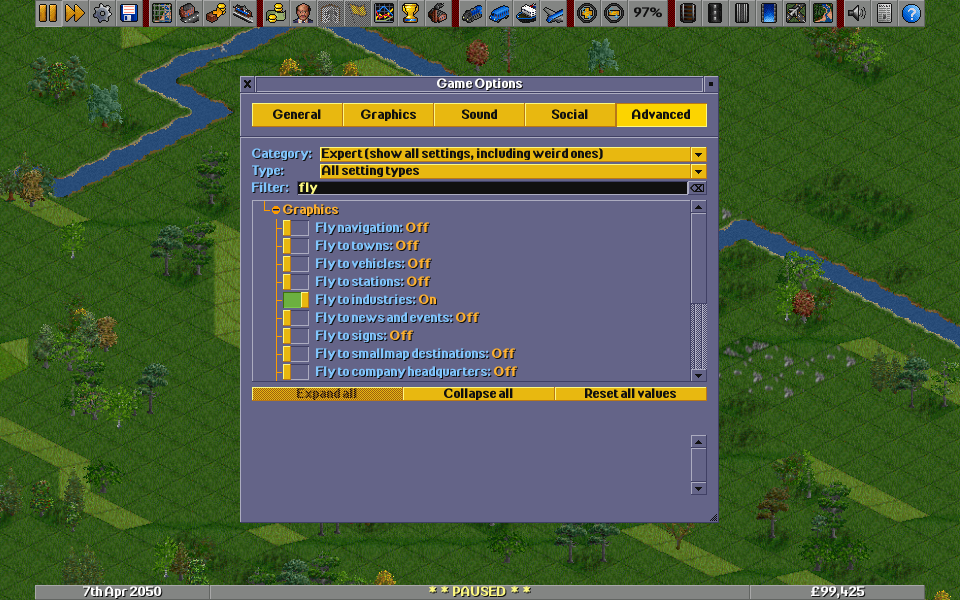
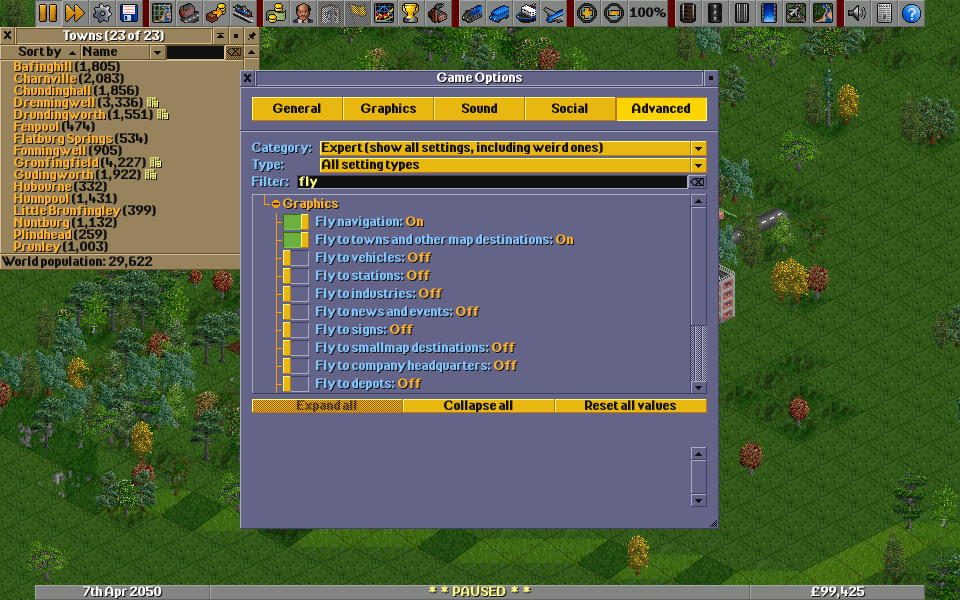
Feature: Combine town and other map flight controls

diff --git a/src/settings_type.h b/src/settings_type.h
@@ -246,7 +246,7 @@ struct GUISettings {
 	ZoomLevel zoom_max; ///< maximum zoom out level
 	bool smooth_zoom; ///< allow fractional mouse-wheel zoom on supported blitters
 	bool fly_navigation; ///< master switch for opt-in zoom-and-pan navigation
-	bool fly_towns; ///< allow flights to towns
+	bool fly_towns; ///< allow flights to towns and otherwise uncategorised map destinations
 	bool fly_vehicles; ///< allow flights to vehicles
 	bool fly_stations; ///< allow flights to stations
 	bool fly_industries; ///< allow flights to industries
@@ -260,7 +260,6 @@ struct GUISettings {
 	bool fly_scenarios; ///< allow flights to scenario links
 	bool fly_subsidies; ///< allow flights to subsidy destinations
 	bool fly_scripts; ///< allow flights to script destinations
-	bool fly_other_navigation; ///< allow flights to otherwise uncategorised destinations
 	uint16_t fly_pan_speed; ///< pan speed as a percentage of viewport widths per second
 	uint16_t fly_zoom_duration; ///< zoom timing at departure and arrival, in milliseconds
 	uint8_t fly_zoom_out; ///< maximum extra traditional zoom-out levels

diff --git a/src/tests/viewport_flight_targets.cpp b/src/tests/viewport_flight_targets.cpp
@@ -30,14 +30,14 @@ TEST_CASE("Flight categories remain independent under the master switch", "[smoo
 		{ViewportFlightTarget::Scenario, &GUISettings::fly_scenarios},
 		{ViewportFlightTarget::Subsidy, &GUISettings::fly_subsidies},
 		{ViewportFlightTarget::Script, &GUISettings::fly_scripts},
-		{ViewportFlightTarget::Other, &GUISettings::fly_other_navigation},
+		{ViewportFlightTarget::Other, &GUISettings::fly_towns},
 	};
 	GUISettings settings{};
 	settings.fly_navigation = true;
 	for (const auto &[enabled_target, enabled_flag] : categories) {
 		settings.*enabled_flag = true;
 		for (const auto &[target, flag] : categories) {
-			CHECK(IsViewportFlightEnabled(settings, target) == (target == enabled_target));
+			CHECK(IsViewportFlightEnabled(settings, target) == (flag == enabled_flag));
 		}
 		settings.fly_navigation = false;
 		CHECK_FALSE(IsViewportFlightEnabled(settings, enabled_target));

diff --git a/src/settingentry_gui.cpp b/src/settingentry_gui.cpp
@@ -606,7 +606,6 @@ SettingsContainer &GetSettingsTree()
 			graphics->Add(new SettingEntry("gui.fly_scenarios"));
 			graphics->Add(new SettingEntry("gui.fly_subsidies"));
 			graphics->Add(new SettingEntry("gui.fly_scripts"));
-			graphics->Add(new SettingEntry("gui.fly_other_navigation"));
 			graphics->Add(new SettingEntry("gui.fly_pan_speed"));
 			graphics->Add(new SettingEntry("gui.fly_zoom_duration"));
 			graphics->Add(new SettingEntry("gui.fly_zoom_out"));

diff --git a/src/core/viewport_flight_targets.hpp b/src/core/viewport_flight_targets.hpp
@@ -35,7 +35,7 @@ bool IsViewportFlightEnabled(const Settings &settings, ViewportFlightTarget targ
 		case ViewportFlightTarget::Scenario: return settings.fly_scenarios;
 		case ViewportFlightTarget::Subsidy: return settings.fly_subsidies;
 		case ViewportFlightTarget::Script: return settings.fly_scripts;
-		case ViewportFlightTarget::Other: return settings.fly_other_navigation;
+		case ViewportFlightTarget::Other: return settings.fly_towns;
 	}
 	return false;
 }

diff --git a/docs/smooth_zoom_readme.md b/docs/smooth_zoom_readme.md
@@ -77,7 +77,7 @@ smooth wheel controls, use `set gui.smooth_zoom 0`.
 
 Flight navigation is a separate, opt-in feature. In **Game Options → Advanced**,
 select **Expert / all settings**, search for **fly**, and enable **Fly navigation**.
-Then enable the destination categories you want. **Fly to towns** defaults to
+Then enable the destination categories you want. **Fly to towns and other map destinations** defaults to
 on beneath the disabled master switch; all additional categories default to off.
 Alternatively, enter `set gui.fly_navigation 1` in the console. It requires a
 supported 32bpp blitter; the mouse-wheel smooth-zoom setting is independent.
@@ -97,17 +97,17 @@ the filter and expand **Graphics** to see all of these options together.
 | Option | Default | Effect |
 | --- | --- | --- |
 | Fly navigation | Off | Master switch for all navigation flights. |
-| Fly to towns | On, subject to master switch | Enables town-directory and town-location flights. |
+| Fly to towns and other map destinations | On, subject to master switch | Enables town-directory, town-location and uncategorised map-location flights, including console `scrollto`. Console setting: `gui.fly_towns`. |
 | Flight pan speed | 100% of a viewport per second | Higher values shorten the journey; range 25–400%. Very short and long journeys have bounded durations. |
 | Flight zoom timing | 350 ms at each end | Higher values give gentler departure and arrival; range 100–2,000 ms. |
 | Maximum extra flight zoom-out | 2 levels | Longer trips reveal more of the route, up to this allowance; range 0–3. Zero removes the extra pull-back. |
 | Town arrival zoom | Fit town automatically | Choose automatic fitting or a fixed level from 400% to 12.5%. |
 
 Every additional category has its own switch. All require **Fly navigation**;
-none requires **Fly to towns** or another category to be enabled.
+none requires **Fly to towns and other map destinations** or another category to be enabled.
 
-This configured example selects industry flights while the master switch is
-off. Scroll the list to see the remaining categories.
+This example enables the master switch and the combined town/map option,
+with the other destination options off. Scroll to see the remaining categories.
 
 ![Independent flight controls in Advanced settings](images/smooth-zoom/flight-target-settings.png)
 
@@ -126,9 +126,8 @@ off. Scroll the list to see the remaining categories.
 | Fly to scenario links | Story-page, goal and league-table location links | `gui.fly_scenarios` |
 | Fly to subsidy destinations | Subsidy-list source/destination locations | `gui.fly_subsidies` |
 | Fly to script destinations | Navigation requested by a game script | `gui.fly_scripts` |
-| Fly to other locations | Remaining map-location actions and console `scrollto` | `gui.fly_other_navigation` |
 
-For example, enable station flights without town flights:
+For example, enable station flights without town or uncategorised map flights:
 
 ```text
 set gui.fly_navigation 1
@@ -139,9 +138,10 @@ set gui.fly_stations 1
 The switch follows the action used: a vehicle referenced in a news item uses
 the news switch, while its own location button uses the vehicle switch. Order
 destinations use the order switch even when the destination is a station.
-**Fly to other locations** does not override any disabled category. It replaces
-the earlier **Fly to other map destinations** blanket switch; enable individual
-categories when upgrading that prototype configuration.
+**Fly to towns and other map destinations** combines town and uncategorised
+map navigation; it does not override any other disabled category. The combined
+switch retains `gui.fly_towns` and its existing value. The former
+`gui.fly_other_navigation` setting is removed; use `gui.fly_towns` instead.
 
 Turning off a category cancels any active flight in that category at its
 currently displayed view. Turning off the master cancels every flight.
@@ -168,7 +168,7 @@ To try other destinations from the console:
 
 ```text
 set gui.fly_navigation 1
-set gui.fly_other_navigation 1
+set gui.fly_towns 1
 scrollto 50 50
 ```
 

diff --git a/docs/smooth_zoom_handoff.md b/docs/smooth_zoom_handoff.md
@@ -59,8 +59,9 @@ outputs, isolated configurations, saved games and runtime logs stay ignored.
 
 ## Per-target flight controls
 
-`gui.fly_navigation` is now the master switch; `gui.fly_towns` independently
-controls towns. Towns default on beneath the disabled master switch; additional
+`gui.fly_navigation` is the master switch; `gui.fly_towns` now jointly
+controls towns and uncategorised map destinations. This combined option defaults
+on beneath the disabled master switch; additional
 categories default off. `ViewportFlightTarget` and `IsViewportFlightEnabled`
 carry typed permissions through viewport navigation. Active flights retain
 their category and cancel if that category or the master is disabled.
@@ -70,8 +71,9 @@ smallmap, company headquarters, depots, waypoints, order destinations, scenario
 links (stories/goals/league tables), subsidies, game-script locations and other
 locations. News references use News even for a vehicle; order destinations use
 Order even for a station. Generic Other does not override disabled categories.
-The earlier blanket `fly_other_navigation` flag now applies only to otherwise
-uncategorised map locations and console commands. Explicit instant navigation,
+The former `fly_other_navigation` setting has been removed. Uncategorized map
+locations and console commands now share `fly_towns`; all other category switches
+remain independent. Existing `fly_towns` configurations retain their value. Explicit instant navigation,
 Ctrl-click extra viewports and continuous vehicle following remain immediate.
 Vehicle location flights target the selected position, not a moving endpoint.
 

diff --git a/docs/smooth_zoom_todo.md b/docs/smooth_zoom_todo.md
@@ -204,14 +204,19 @@ animation and interaction are finished.
       the official repository as upstream. Do not change repository visibility.
 - [x] Add independent fly-target toggles for towns, vehicles, stations,
       industries, news/events and the remaining navigation entry points.
-      Fifteen categories, gated by the master switch. Additional categories
-      default off; enabling Other cannot override a disabled category.
+      Fifteen destination categories, gated by the master switch; towns and
+      uncategorised map destinations now share one option. All other options
+      default off; the shared option cannot override a disabled category.
 - [x] Rebuild and test permission isolation: 48,600 assertions in 124 cases.
 - [x] Inspect per-target On/Off settings in the Expert UI; screenshot in guide.
 - [x] Runtime town, station, industry and vehicle category checks, including
       category off while Other is on, and category on while Other is off.
       Disabling an active station category preserves the view past its former
       duration; vehicle following interrupts a vehicle-target flight.
+- [x] Merge town and uncategorised map flights into one option, retaining
+      `gui.fly_towns`; other destination switches remain independent. Release
+      build and 48,600 assertions pass; shared-map on/off, mid-flight cancellation
+      and town-directory flight checked. Guide screenshot refreshed.
 - [ ] Runtime news-item clicks and remaining secondary navigation controls.
 
 User instructions: [prototype setup](smooth_zoom_readme.md).
